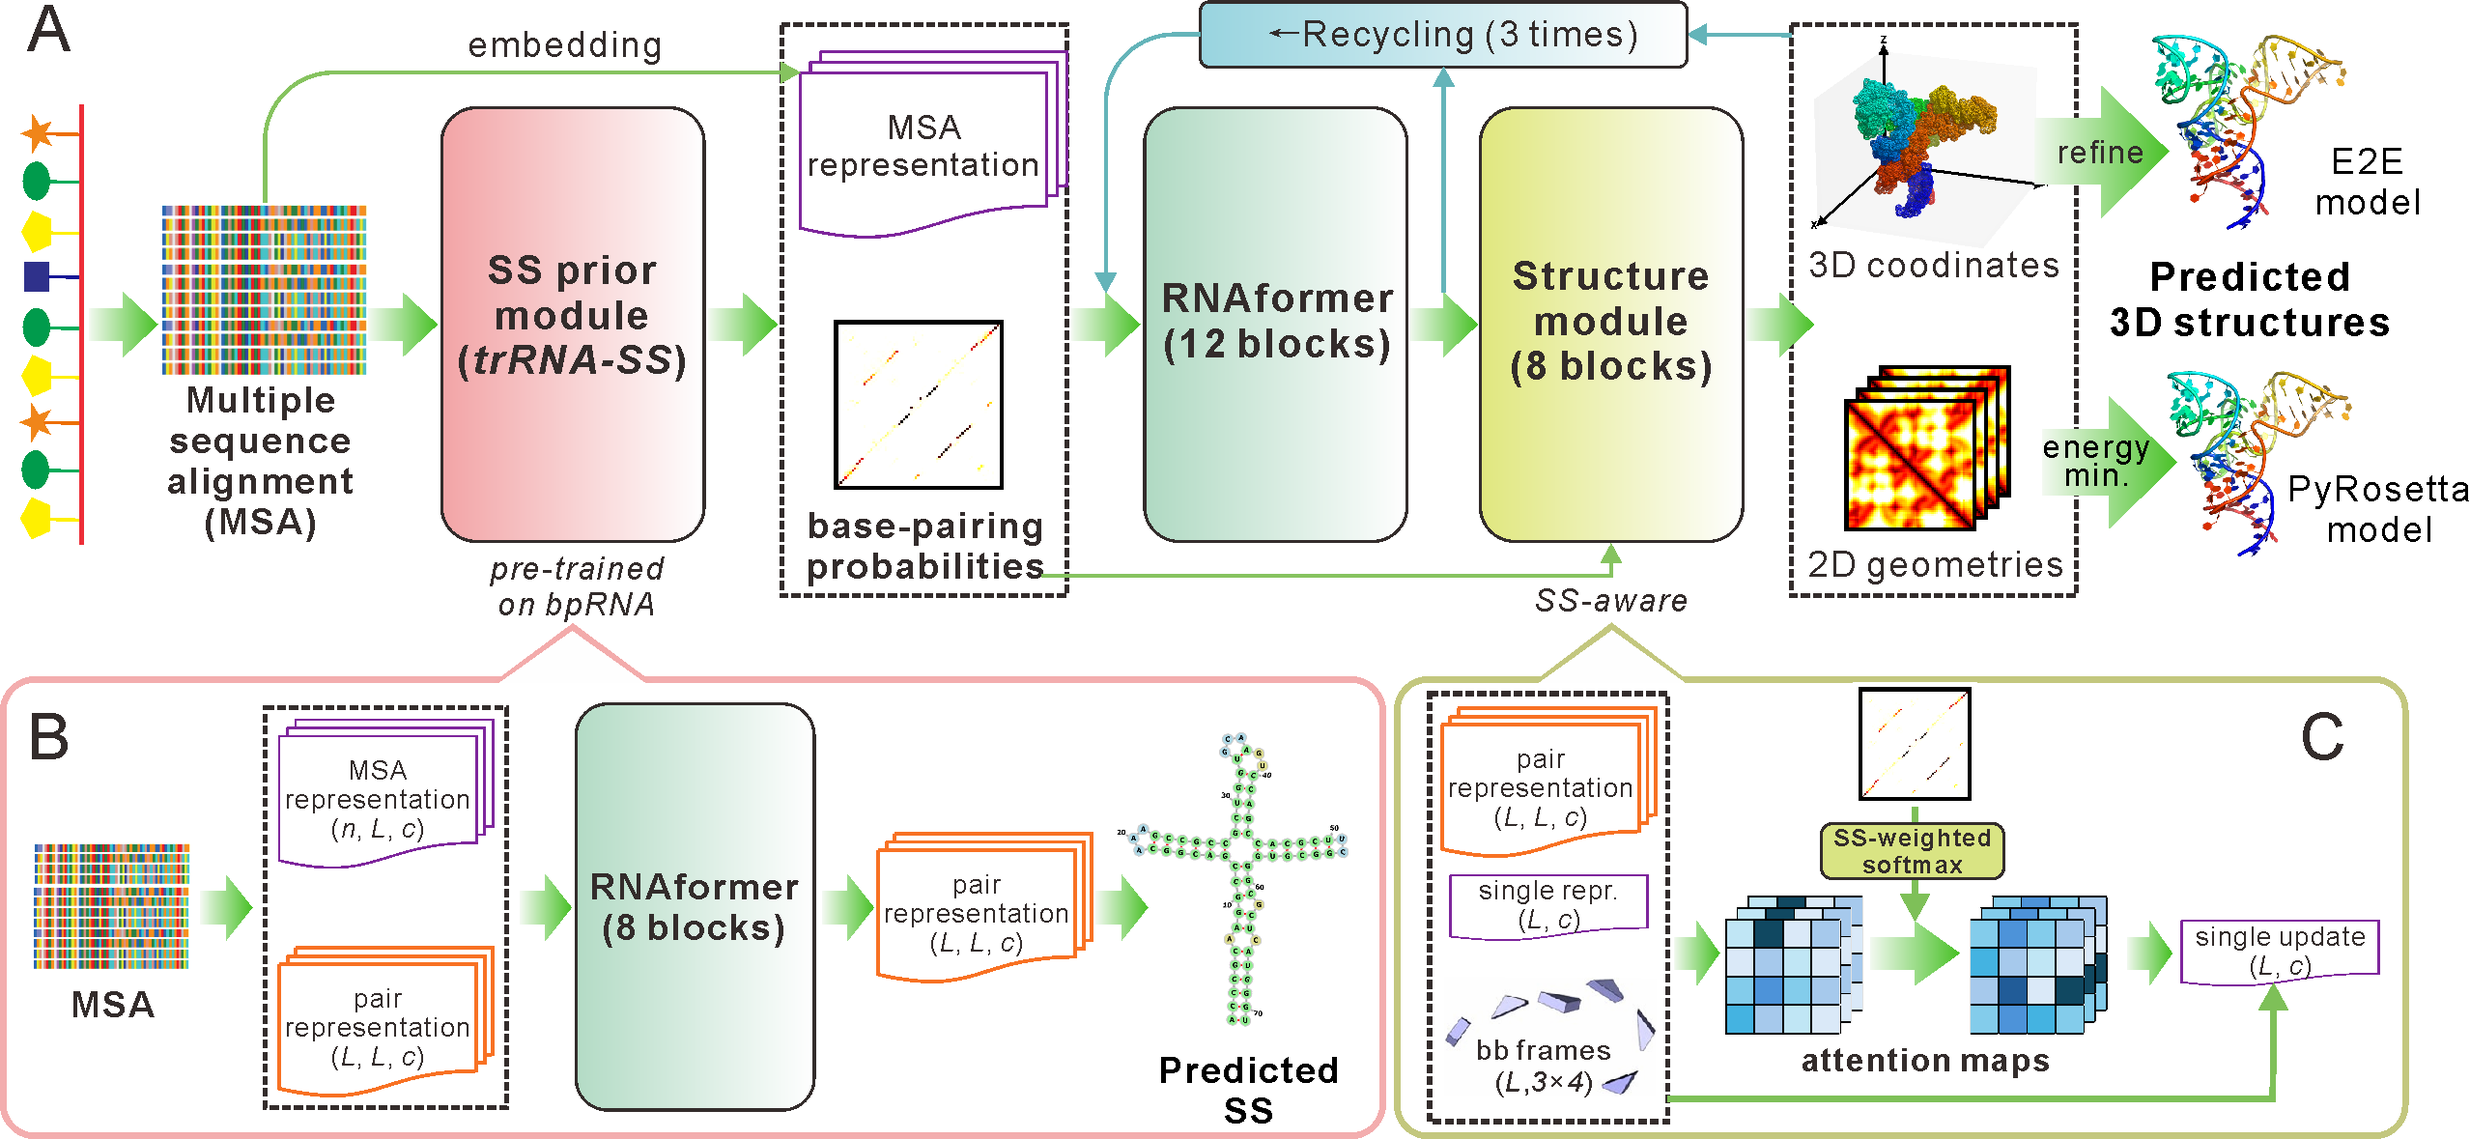
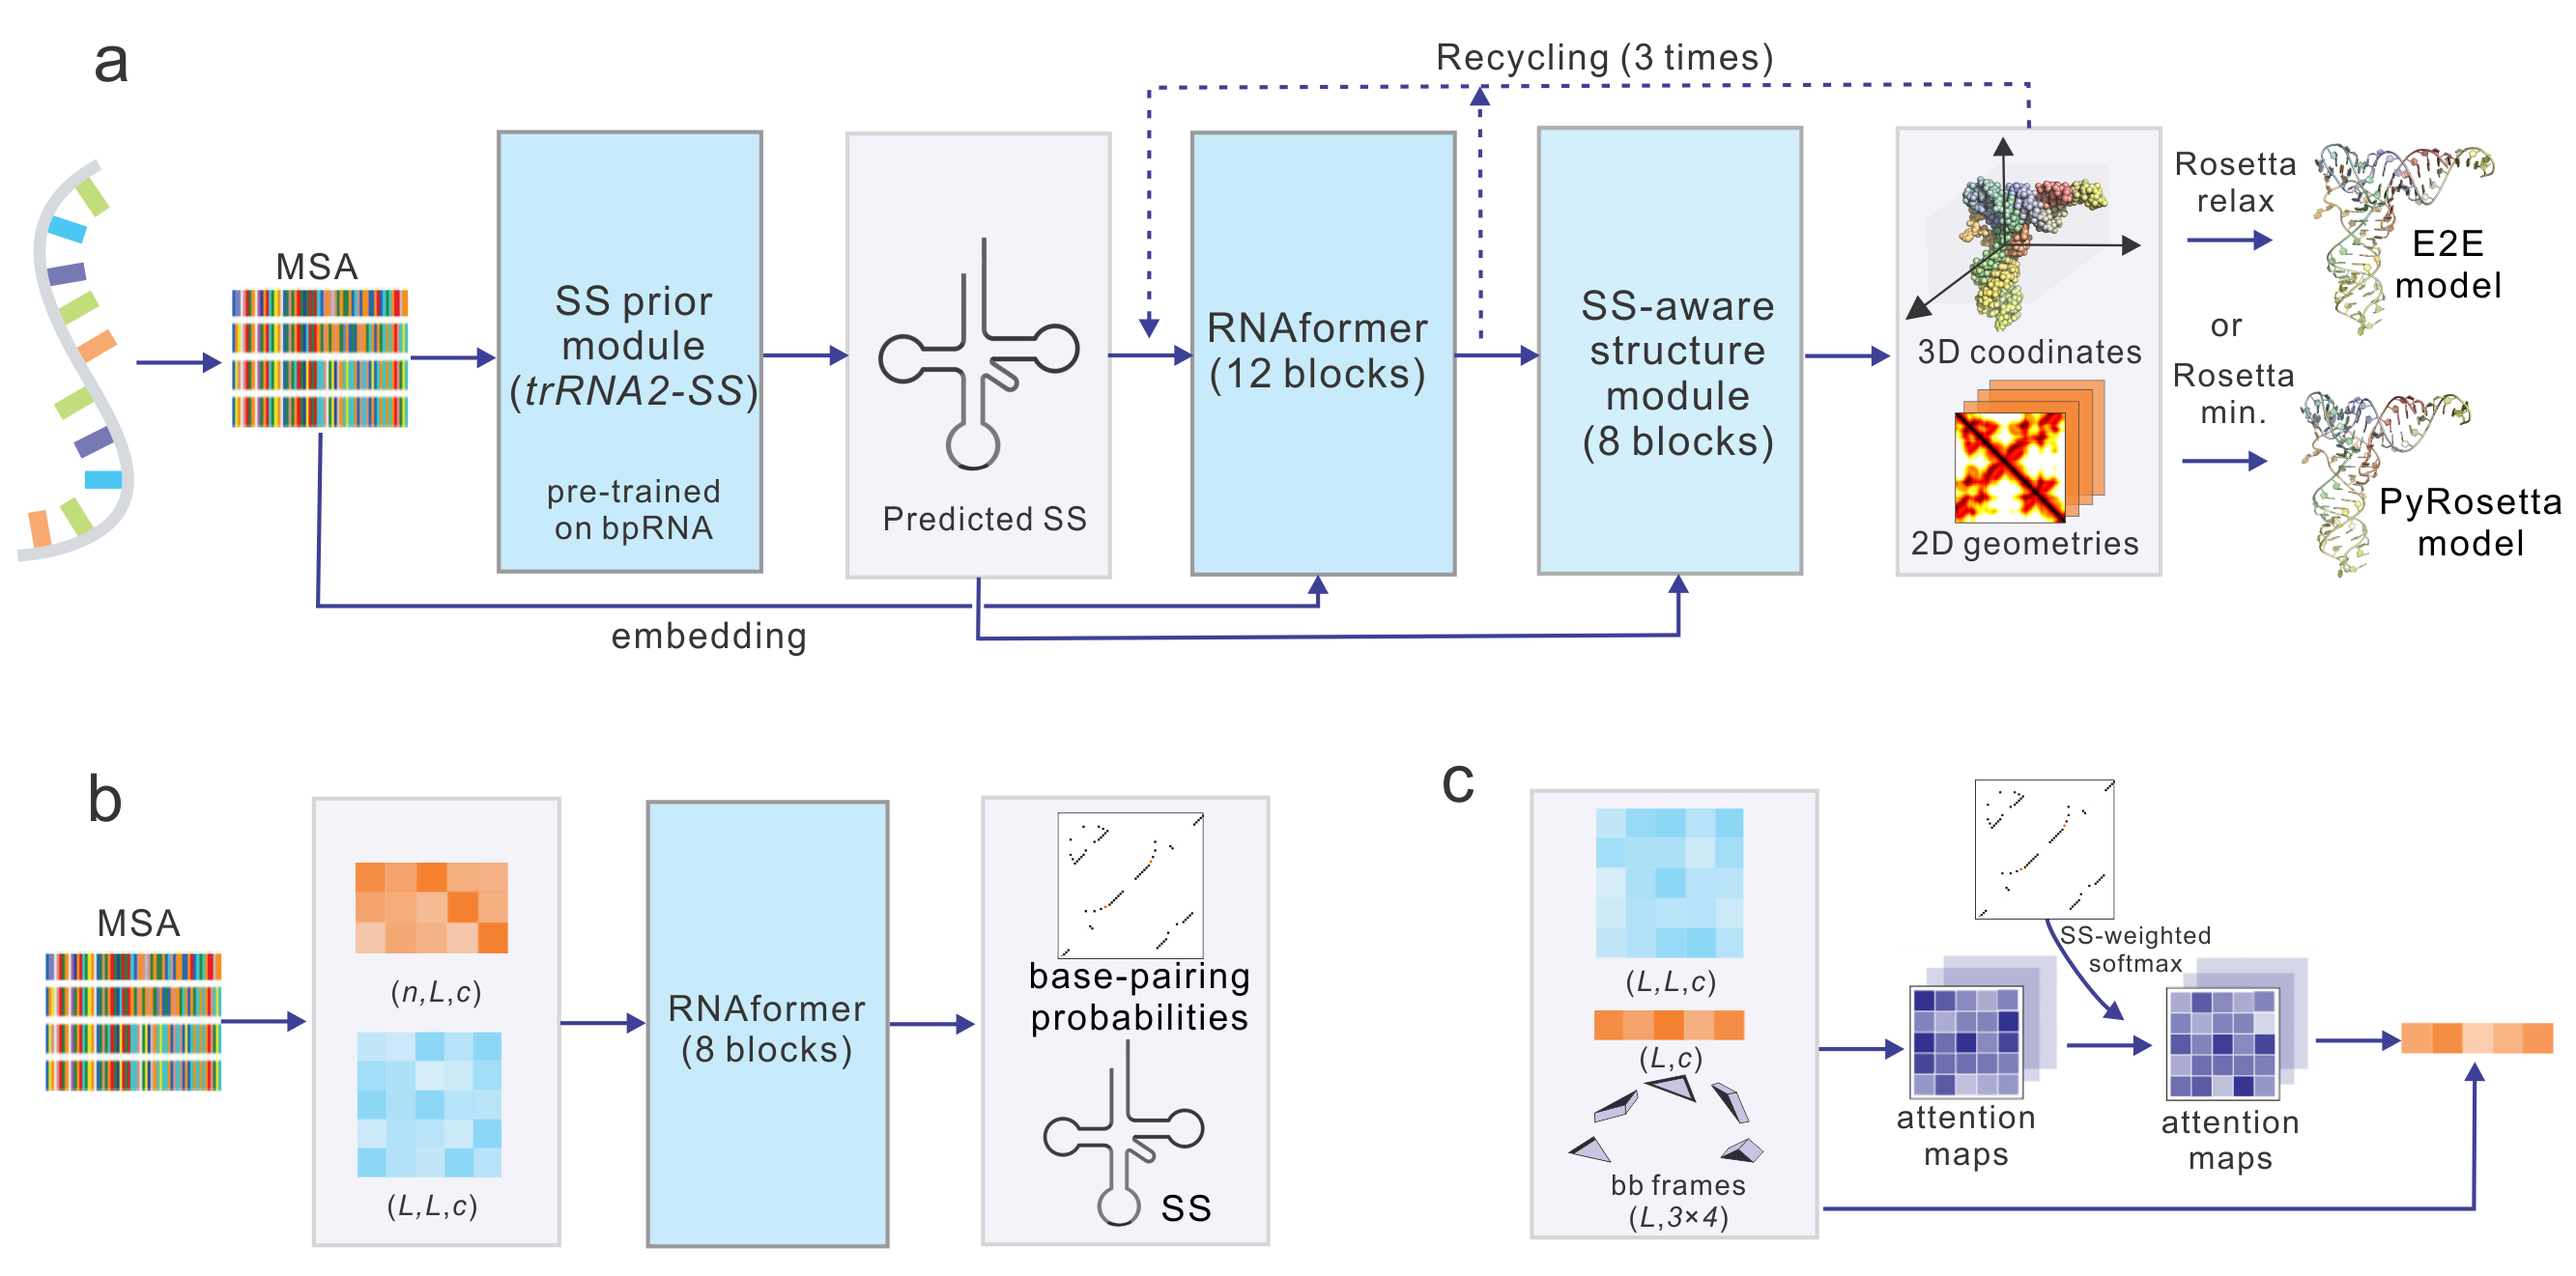
Update README.md

diff --git a/README.md b/README.md
@@ -151,6 +151,12 @@ If you use trRosettaRNA2 in your research or work, please cite our publication:
 	year = {2025},
 	doi = {10.1101/2025.04.09.647915}
 }
+@article {Wang2026trRNAserver,
+	title = {The trRosettaRNA server for RNA structure prediction},
+	author = {Wenkai Wang, Xiaocheng Liu, Zhenling Peng, and Jianyi Yang},
+	journal = {Nature Protocols},
+	year = {2026},
+}
 ```
 
 
